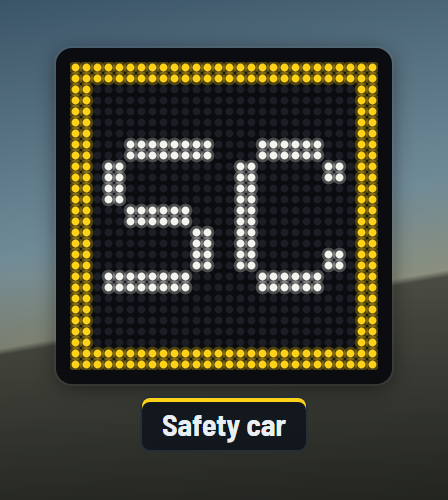
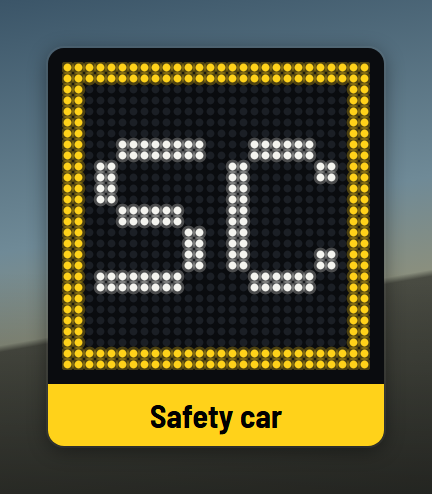
Put the flag text in a colored bar on the board, and remove the Spotter
The flag caption is now part of the LED board: a bar across the bottom
of the housing in the flag's color, with black text. The Spotter widget
is gone; the radar already shows cars alongside. The README has the new
board picture and drops the Spotter section.

Changed region(s): [[0.0903, 0.0911, 0.9028, 0.9109], [0.9329, 0.5466, 1.0, 0.5769]]

diff --git a/src/styles/overlay.css b/src/styles/overlay.css
@@ -1611,52 +1611,6 @@
   margin-left: 6px;
 }
 
-/* ---------- Spotter ----------------------------------------------------------- */
-
-.spotter {
-  display: flex;
-  align-items: center;
-  gap: 14px;
-  padding: 6px;
-  transition: opacity 0.15s;
-}
-.spotter.is-hidden {
-  opacity: 0;
-}
-.spotter-car {
-  width: 40px;
-  height: 80px;
-}
-.spotter-car rect {
-  fill: color-mix(in srgb, var(--panel-solid) 70%, transparent);
-  stroke: var(--ink-2);
-  stroke-width: 2;
-}
-.spotter-car rect.glass {
-  fill: color-mix(in srgb, var(--ink) 18%, transparent);
-  stroke: none;
-}
-.spotter-side {
-  display: flex;
-  gap: 4px;
-  height: 96px;
-}
-.spotter-right {
-  flex-direction: row-reverse;
-}
-.spotter-side span {
-  width: 9px;
-  border-radius: 5px;
-  background: color-mix(in srgb, var(--panel-solid) 55%, transparent);
-  border: 1px solid var(--line-strong);
-}
-.spotter-side.is-on span:last-child,
-.spotter-side.is-double span {
-  background: var(--attention);
-  border-color: var(--attention);
-  box-shadow: 0 0 14px color-mix(in srgb, var(--attention) 55%, transparent);
-}
-
 /* ---------- Radar ------------------------------------------------------------- */
 
 .radar {
@@ -1892,39 +1846,35 @@
 /* ---------- Flags --------------------------------------------------------------- */
 
 .flags {
-  display: flex;
-  flex-direction: column;
-  align-items: center;
-  width: 176px;
   transition: opacity 0.2s;
 }
 .flags.is-hidden {
   opacity: 0;
 }
-/* The board is a physical sign, so it stays dark in either theme. */
-.flags-board {
-  display: block;
-  box-sizing: content-box;
+/* The board is a physical sign, so it stays dark in either theme. Its text
+   sits in the same housing, under the lights. */
+.flags-housing {
+  display: flex;
+  flex-direction: column;
+  width: min-content;
   padding: 7px;
   border-radius: 8px;
   background: #0a0c0f;
   box-shadow: 0 0 0 1px rgba(255, 255, 255, 0.06), 0 2px 10px rgba(0, 0, 0, 0.45);
 }
-.flags-caption {
-  max-width: 100%;
-  margin-top: 6px;
-  padding: 4px 10px;
-  border-radius: 5px;
-  background: var(--panel);
-  border: 1px solid var(--line);
-  box-shadow: inset 0 2px 0 var(--flag);
-  font-size: 15px;
-  font-weight: 700;
-  text-align: center;
-  white-space: nowrap;
-  overflow: hidden;
-  text-overflow: ellipsis;
+.flags-board {
+  display: block;
 }
-.flags-caption.is-empty {
-  visibility: hidden;
+/* A bar in the flag's color across the bottom of the housing. */
+.flags-caption {
+  margin: 7px -7px -7px;
+  padding: 6px 10px;
+  border-radius: 0 0 8px 8px;
+  background: var(--flag);
+  font-size: 16px;
+  font-weight: 700;
+  line-height: 1.2;
+  text-align: center;
+  text-wrap: balance;
+  color: #000;
 }

diff --git a/src/lib/config.ts b/src/lib/config.ts
@@ -3,7 +3,7 @@ import type { ColorKey, Theme } from "./theme";
 
 export type WidgetId =
   | "relative" | "standings" | "session" | "inputs" | "delta" | "laplog" | "coach" | "dynamics" | "instruments" | "fuel"
-  | "radar" | "tires" | "flags" | "spotter";
+  | "radar" | "tires" | "flags";
 
 export type AnchorX = "l" | "c" | "r";
 export type AnchorY = "t" | "m" | "b";
@@ -269,15 +269,6 @@ export const WIDGETS: WidgetMeta[] = [
       { key: "textWarning", label: "Black and white", type: "text", default: "Warning", maxLength: 28 },
       { key: "textDisqualified", label: "Disqualified", type: "text", default: "Disqualified", maxLength: 28 },
       { key: "alwaysShow", label: "Always visible", type: "toggle", default: false, help: "Shows the dark board when there's no flag" },
-    ],
-  },
-  {
-    id: "spotter",
-    name: "Spotter",
-    description: "Simple left and right lights when a car is alongside. The radar includes these too.",
-    x: 1130, y: 680, enabled: false,
-    options: [
-      { key: "alwaysShow", label: "Always visible", type: "toggle", default: false, help: "Otherwise it only appears when a car is alongside" },
     ],
   },
 ];

diff --git a/src/widgets/Flags.tsx b/src/widgets/Flags.tsx
@@ -81,8 +81,10 @@ export function Flags({ config, editing }: { config: WidgetConfig; editing: bool
 
   return (
     <div className={`flags ${visible ? "" : "is-hidden"}`} style={{ "--flag": board?.color ?? "var(--ink-3)" } as React.CSSProperties}>
-      <LedBoard pattern={board?.pattern ?? { kind: "off" }} flash={board?.flash ?? false} />
-      {showCaption && <div className={`flags-caption ${caption ? "" : "is-empty"}`}>{caption || " "}</div>}
+      <div className="flags-housing">
+        <LedBoard pattern={board?.pattern ?? { kind: "off" }} flash={board?.flash ?? false} />
+        {showCaption && caption && <div className="flags-caption">{caption}</div>}
+      </div>
     </div>
   );
 }

diff --git a/src/lib/theme.ts b/src/lib/theme.ts
@@ -41,7 +41,7 @@ export const COLOR_GROUPS: { title: string; colors: ColorSpec[] }[] = [
       { key: "fastest", label: "Fastest in class" },
       { key: "gain", label: "Gaining and personal best" },
       { key: "loss", label: "Losing time" },
-      { key: "attention", label: "Warnings and highlights", help: "Also the cars alongside on the radar and spotter" },
+      { key: "attention", label: "Warnings and highlights", help: "Also the cars alongside on the radar" },
       { key: "lapped", label: "Cars you're lapping" },
       { key: "lapping", label: "Cars lapping you" },
     ],

diff --git a/src/widgets/registry.ts b/src/widgets/registry.ts
@@ -11,7 +11,6 @@ import { LapLog } from "./LapLog";
 import { Radar } from "./Radar";
 import { Relative } from "./Relative";
 import { Session } from "./Session";
-import { Spotter } from "./Spotter";
 import { Standings } from "./Standings";
 import { Tires } from "./Tires";
 
@@ -30,7 +29,6 @@ export const COMPONENTS: Record<WidgetId, ComponentType<WidgetProps>> = {
   laplog: LapLog,
   flags: Flags,
   fuel: Fuel,
-  spotter: Spotter,
   radar: Radar,
   tires: Tires,
   coach: Coach,

diff --git a/crates/telemetry/src/demo.rs b/crates/telemetry/src/demo.rs
@@ -286,7 +286,7 @@ impl DemoSource {
             f.car_lap_dist_pct[i] = -1.0;
         }
 
-        // Side-by-side detection for the spotter.
+        // Side-by-side detection for the radar.
         let mut left = 0;
         let mut right = 0;
         for i in 0..n {

diff --git a/README.md b/README.md
@@ -15,9 +15,9 @@ subscriptions, no third-party services, and every line of it is yours to change.
 
 ## Features
 
-- **14 widgets**: timing tables, a lap delta graph, a lap log, live coaching,
-  inputs, car dynamics, dash lights, fuel, tires, a radar, a spotter and an LED
-  flag board. Each one has its own options.
+- **13 widgets**: timing tables, a lap delta graph, a lap log, live coaching,
+  inputs, car dynamics, dash lights, fuel, tires, a radar and an LED flag
+  board. Each one has its own options.
 - **Edit layout mode**: drag any widget anywhere, resize it, snap it to the
   screen edges and other widgets, and turn widgets on or off from the edit bar.
 - **Saved layouts**: keep as many layouts as you like (sprint, endurance,
@@ -186,15 +186,6 @@ someone's alongside.
 
 *Options*: range, always visible or only when a car is near, and class colors.
 
-### Spotter
-
-![Spotter widget](docs/widgets/spotter.png)
-
-Simple left and right lights when a car is alongside, doubled for two cars.
-The radar shows these too. Off by default.
-
-*Options*: always visible.
-
 ### Flags
 
 ![Flags widget](docs/widgets/flags.png)
@@ -202,8 +193,8 @@ The radar shows these too. Off by default.
 A trackside LED flag board. Yellow (flashing when waved), safety car ("SC" in a
 yellow border), blue (flashing), debris, white, chequered, red, black, meatball,
 black-and-white warning and disqualified each have their own pattern. Green
-shows for a few seconds after a start or restart. A line of text under the
-board says what the flag means.
+shows for a few seconds after a start or restart. Under the lights, a bar in
+the flag's color says what it means.
 
 *Options*: the text for each flag (for example "Accident ahead" for yellow), up
 to three letters for the safety car board, how long green shows, and whether

diff --git a/docs/ARCHITECTURE.md b/docs/ARCHITECTURE.md
@@ -18,7 +18,7 @@ knows which source it's reading from, so the demo exercises the real maths.
 
 | Event     | Rate          | Contents                                          | Goes to        |
 | --------- | ------------- | ------------------------------------------------- | -------------- |
-| `tick`    | every frame, 60 Hz | Player car: inputs, gear, speed, lap times, delta, fuel level, spotter, nearby cars for the radar | overlay only |
+| `tick`    | every frame, 60 Hz | Player car: inputs, gear, speed, lap times, delta, fuel level, side-by-side warnings and nearby cars for the radar | overlay only |
 | `field`   | 10 Hz         | Relative, standings, fuel strategy, tires, session clock | all windows    |
 | `session` | on change     | Track, session type, car, fuel tank size, shift RPM | all windows  |
 | `status`  | on change     | Source and connection state                       | all windows    |
